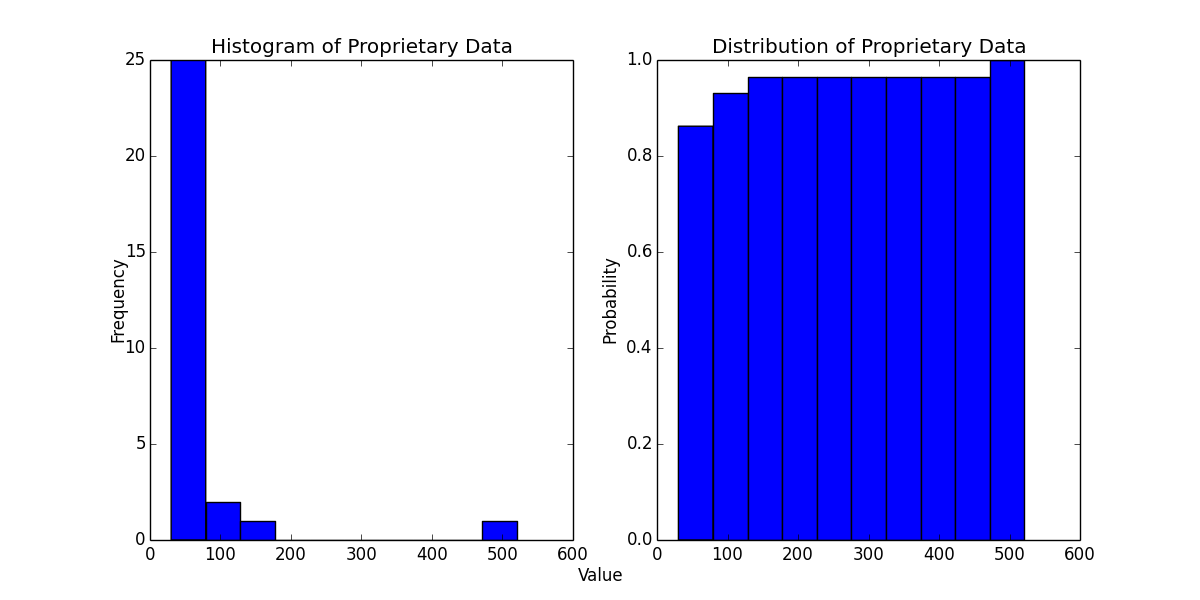
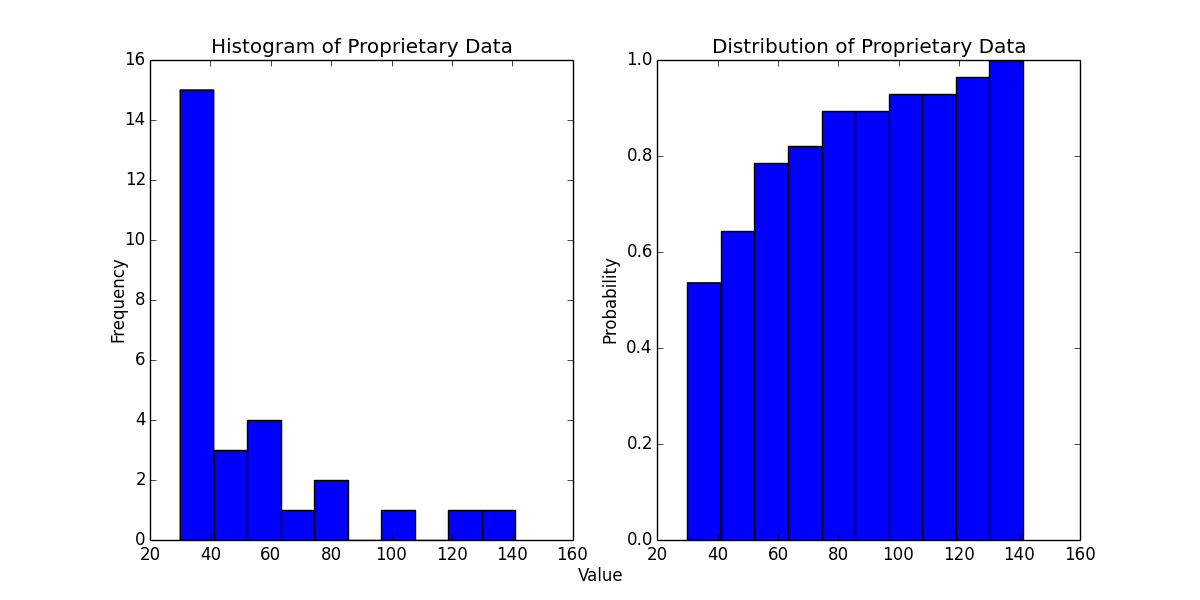
Fix incorrect analysis of proprietary dataset

diff --git a/text/chapters/Evaluation.tex b/text/chapters/Evaluation.tex
@@ -30,7 +30,7 @@ Netbeans data were downloaded from Netbeans bug repository\footnote{https://netb
 
 \subsection{Proprietary Data}
 
-The Proprietary dataset was provided by a company that wants to remain anonymous. The provided dataset contains $2,764$ bug reports created between 2009-03-07 and 2013-08-23. Only bug reports that were resolved with assigned developer were considered. There are $142$ developers in this dataset. Only $1,997$ bugs assigned to $29$ developers were retained after removal of developers with less than $30$ fixed bugs. The histogram and probability distribution is pictured on figure~\ref{fig:datasets.proprietary.dist}.
+The Proprietary dataset was provided by a company that wants to remain anonymous. The provided dataset contains $2,243$ bug reports created between 2009-03-07 and 2013-08-23. Only bug reports that were resolved with assigned developer were considered. There are $141$ developers in this dataset. Only $1,479$ bugs assigned to $28$ developers were retained after removal of developers with less than $30$ fixed bugs. The histogram and probability distribution is pictured on figure~\ref{fig:datasets.proprietary.dist}.
 
 \begin{figure}[htbp]
     \centering
